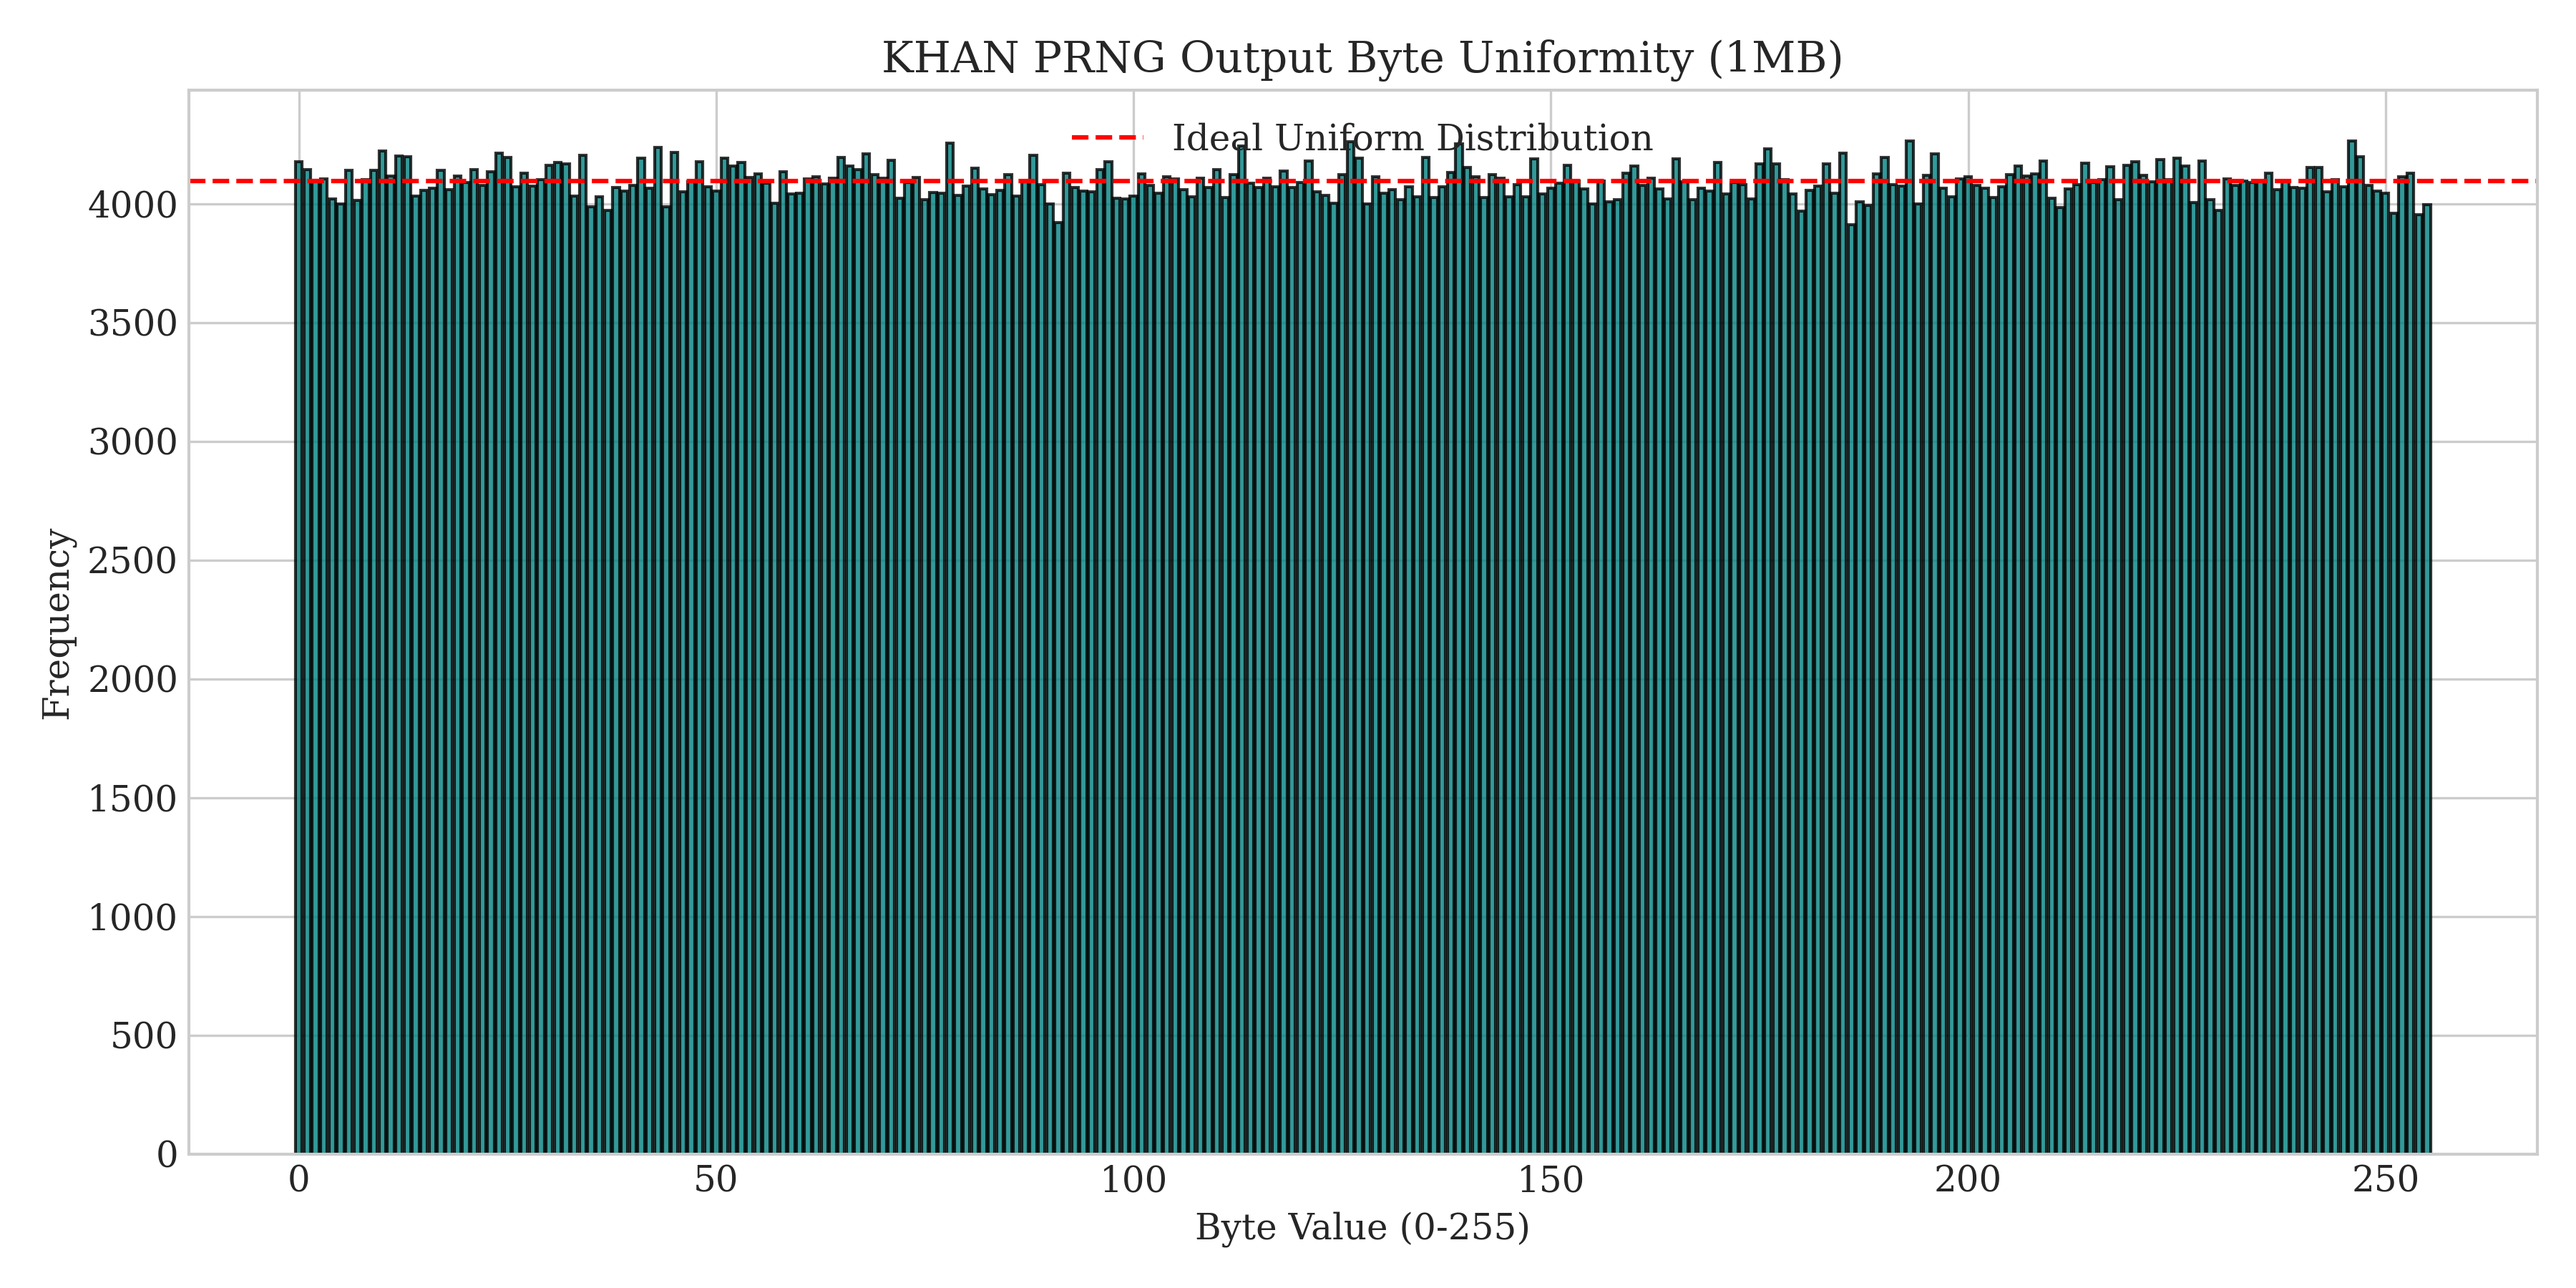
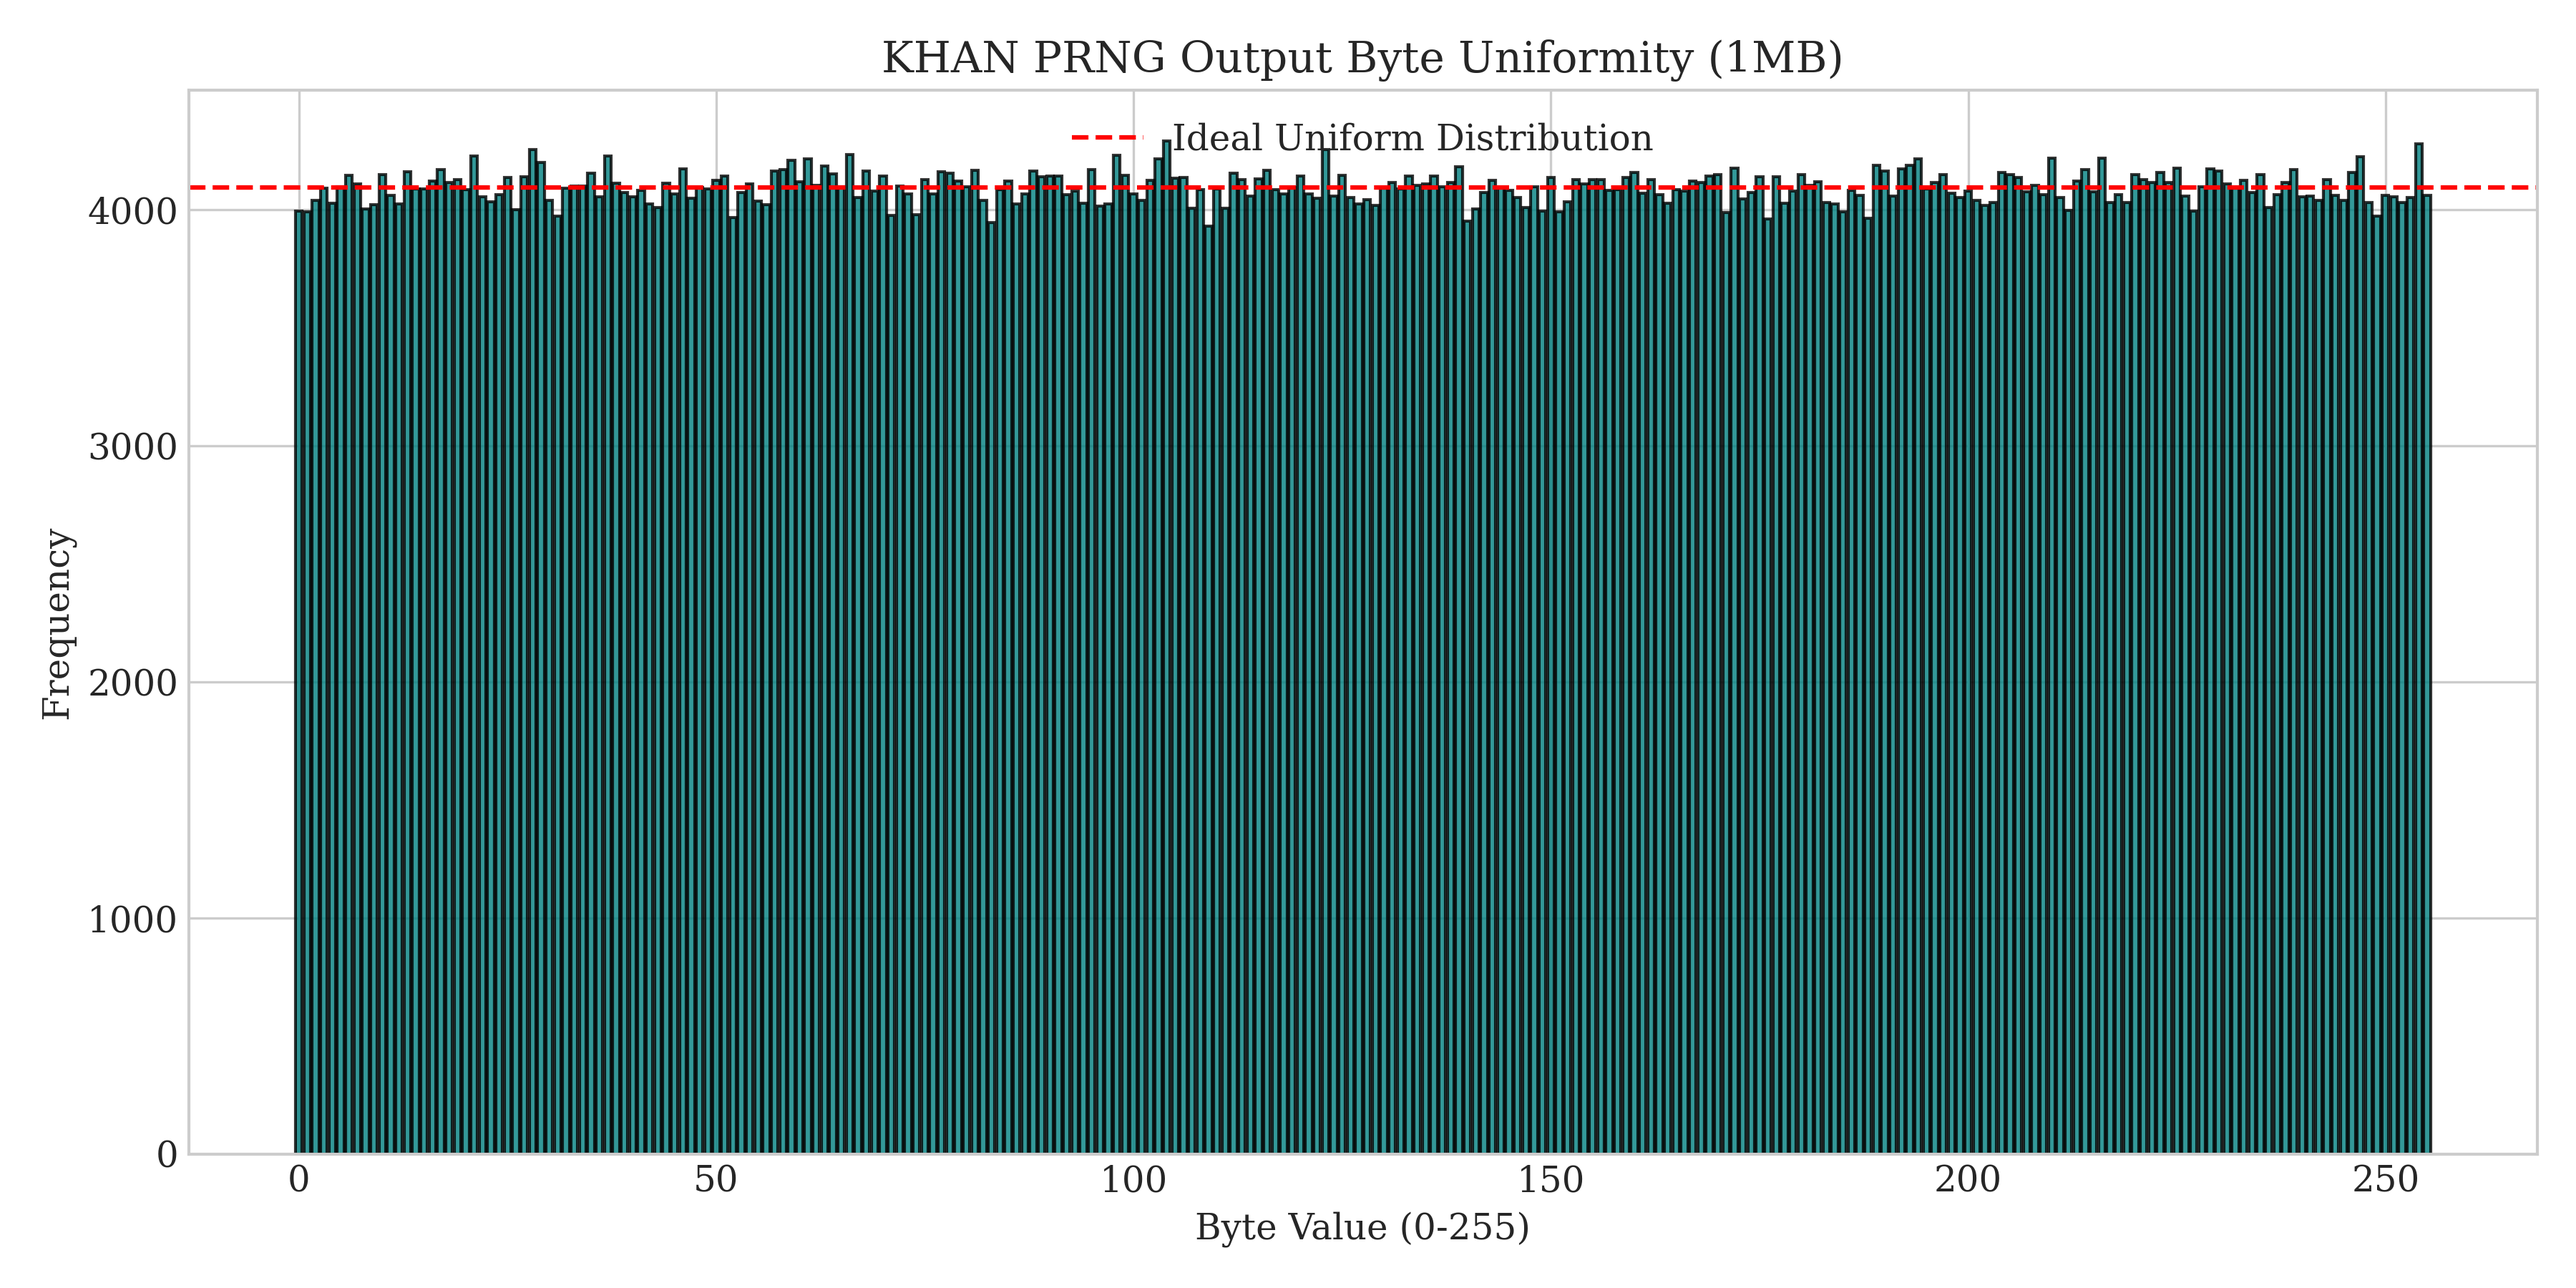
FIX: Remove unused import (F401) and fix autocorrelation benchmark for new wire format

diff --git a/benchmarks/autocorrelation.py b/benchmarks/autocorrelation.py
@@ -2,7 +2,7 @@ import os
 import numpy as np
 import matplotlib.pyplot as plt
 import seaborn as sns
-from khan_cipher.core import encrypt
+from khan_cipher.core import KhanKeystream, derive_key
 
 plt.style.use('seaborn-v0_8-whitegrid')
 plt.rcParams.update({'font.family': 'serif', 'font.size': 12})
@@ -11,12 +11,14 @@ plt.rcParams.update({'font.family': 'serif', 'font.size': 12})
 def main():
     os.makedirs('benchmarks/plots', exist_ok=True)
 
-    # Generate keystream 256*256 = 65536 bytes
+    # Generate keystream 256*256 = 65536 bytes directly
     size = 256 * 256
     master_key = os.urandom(32)
-    plaintext = b'\x00' * size
-    payload = encrypt(plaintext, master_key)
-    keystream = payload[32:-32]
+    salt = os.urandom(16)
+    iv = os.urandom(16)
+    derived_key = derive_key(master_key, salt)
+    ksg = KhanKeystream(derived_key, 100003, iv)
+    keystream = bytes([ksg.get_next_byte() for _ in range(size)])
 
     signal = np.array(list(keystream), dtype=float)
     signal -= np.mean(signal)

diff --git a/src/khan_cipher/core.py b/src/khan_cipher/core.py
@@ -17,7 +17,7 @@ try:
 except ImportError:
     bulk_xor = None
 
-from .primes import DEFAULT_PRIME, generate_full_reptend_prime
+from .primes import DEFAULT_PRIME
 
 
 class KhanDecryptionError(Exception):
